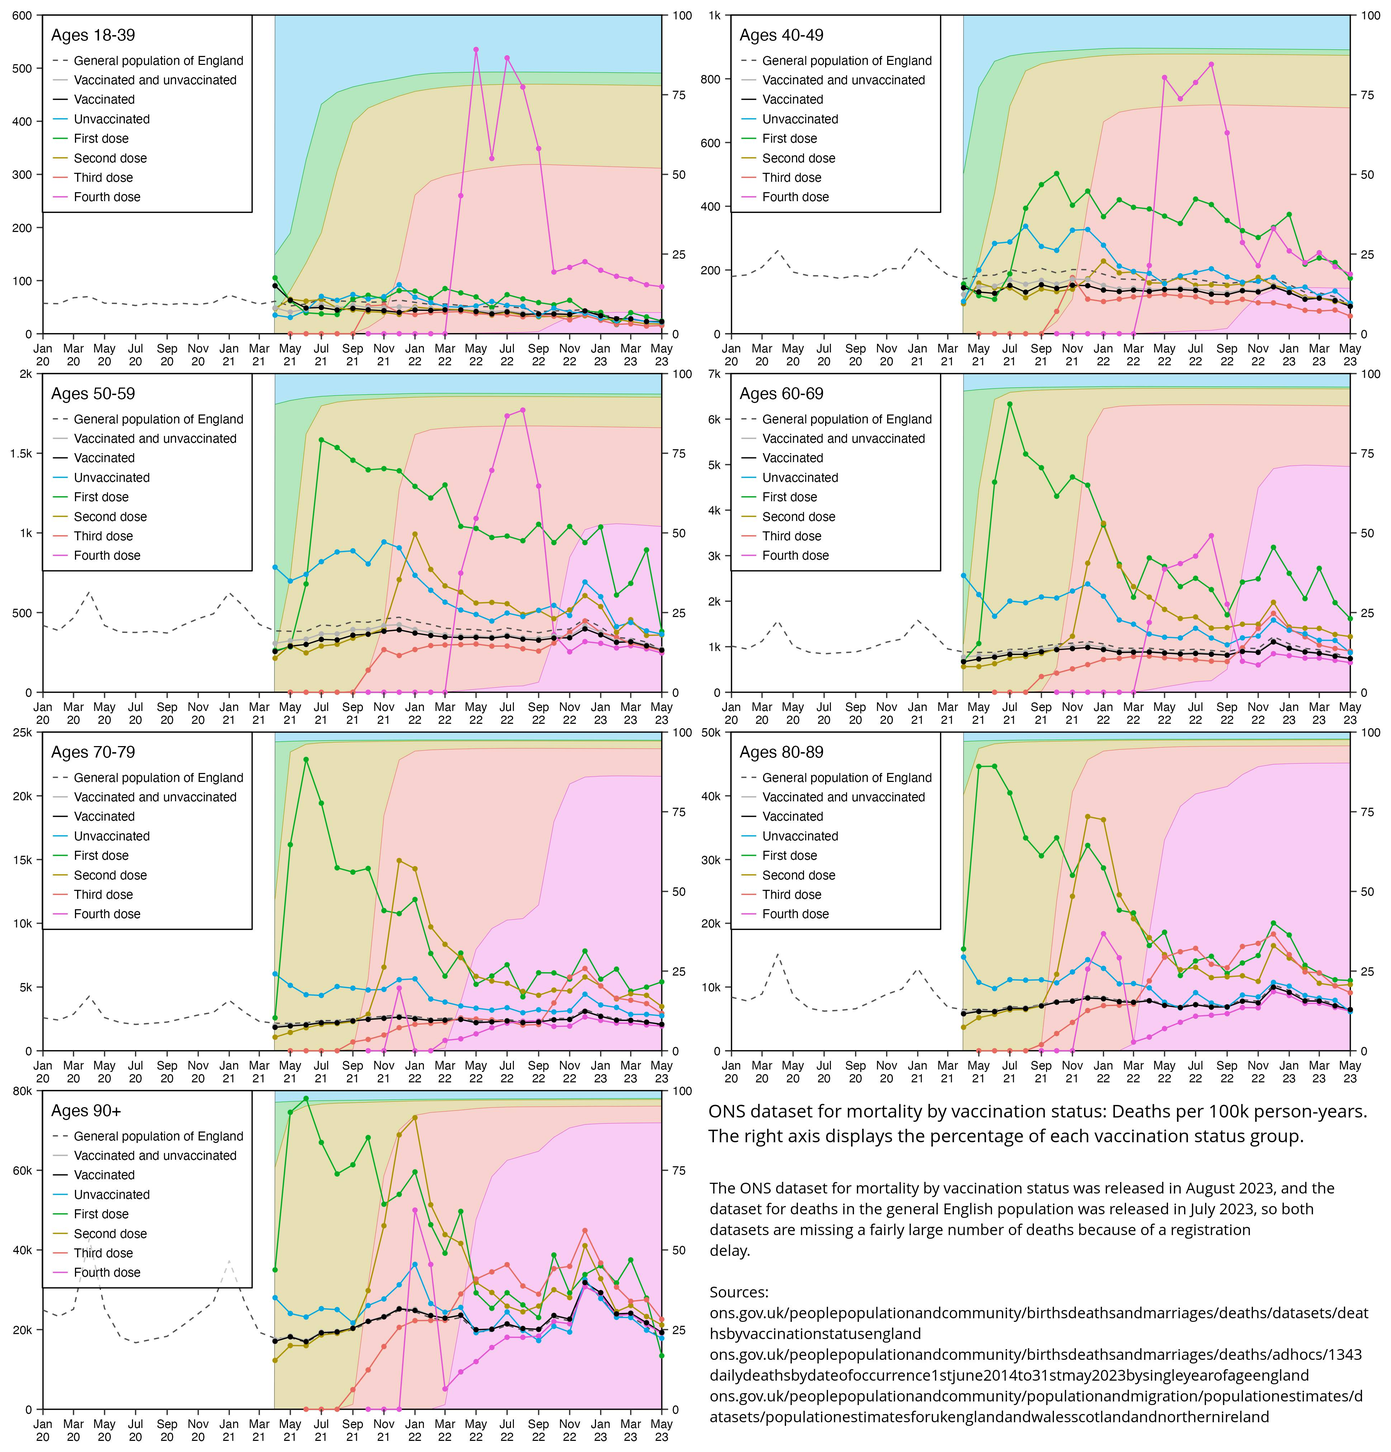
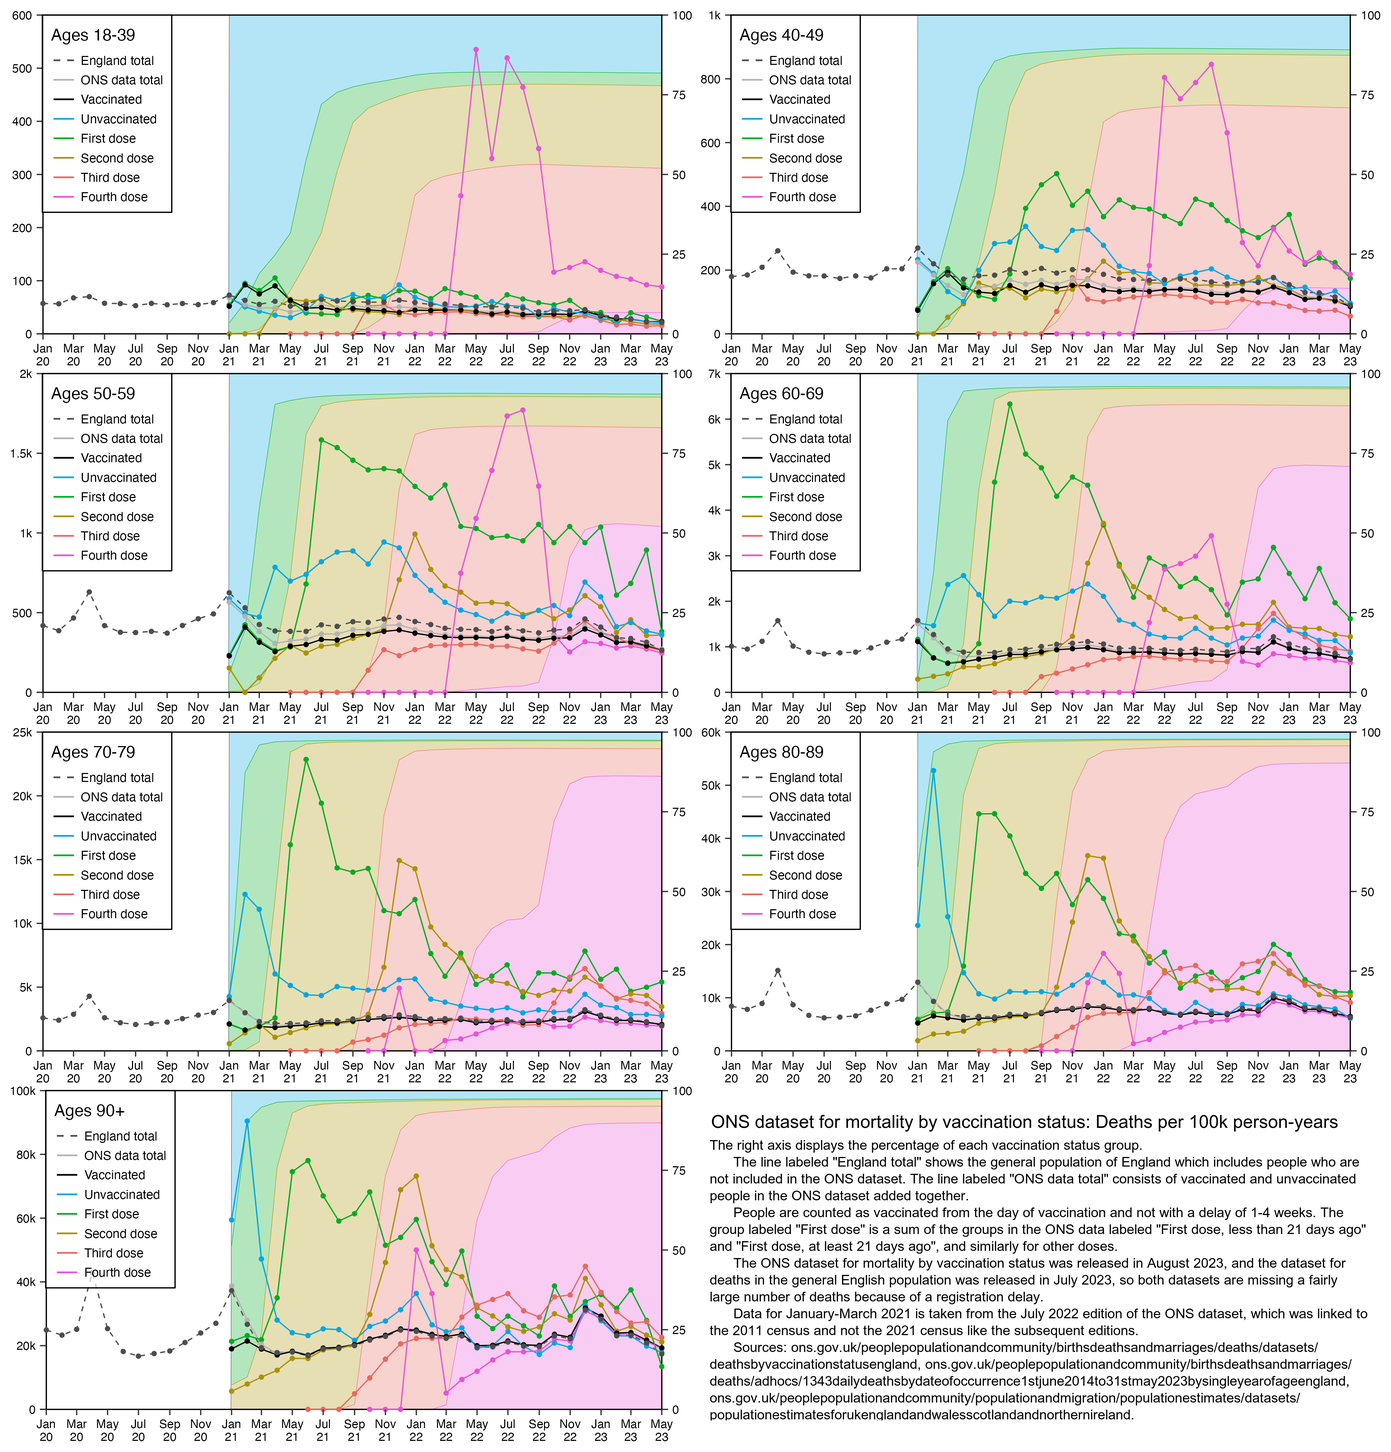
a

diff --git a/debunk.html b/debunk.html
@@ -60,7 +60,8 @@ th{background:#eee;text-align:left;font-weight:bold}
 <li><a href=#Ethical_Skeptic_Plot_for_cardiac_deaths_in_ages_0_54>Ethical Skeptic: Plot for cardiac deaths in ages 0-54</a></li>
 <li><a href=#John_Beaudoin_Cancer_deaths_under_two_ICD_codes_in_Minnesota>John Beaudoin: Cancer deaths under two ICD codes in Minnesota</a></li>
 <li><a href=#Ethical_Skeptic_COVID_deaths_per_capita_compared_to_percentage_of_vaccinated_population_in_US_counties>Ethical Skeptic: COVID deaths per capita compared to percentage of vaccinated population in US counties</a></li>
-<li><a href=#Tore_Aarhus_Gulbrandsen_Changed_z_scores_for_Finland_at_EUROMOMO>Tore Aarhus Gulbrandsen: Changed z-scores for Finland at EUROMOMO</a></li>
+<li><a href=#Tore_Aarhus_Gulbrandsen_Reduced_z_scores_for_Finland_at_EUROMOMO>Tore Aarhus Gulbrandsen: Reduced z-scores for Finland at EUROMOMO</a></li>
+<li><a href=#David_Bell_Increase_in_cancer_deaths_in_ages_15_44_at_CDC_WONDER>David Bell: Increase in cancer deaths in ages 15-44 at CDC WONDER</a></li>
 </ul>
 
 <h2>
@@ -759,7 +760,7 @@ theme(axis.text=element_text(size=5.5,color=&quot;black&quot;),
   plot.title=element_text(size=7.3))
 ggsave(&quot;1.png&quot;,width=5.2,height=3.1,dpi=450)</pre>
 <h2>
-<a href=#Tore_Aarhus_Gulbrandsen_Changed_z_scores_for_Finland_at_EUROMOMO id=Tore_Aarhus_Gulbrandsen_Changed_z_scores_for_Finland_at_EUROMOMO>Tore Aarhus Gulbrandsen: Changed z-scores for Finland at EUROMOMO</a>
+<a href=#Tore_Aarhus_Gulbrandsen_Reduced_z_scores_for_Finland_at_EUROMOMO id=Tore_Aarhus_Gulbrandsen_Reduced_z_scores_for_Finland_at_EUROMOMO>Tore Aarhus Gulbrandsen: Reduced z-scores for Finland at EUROMOMO</a>
 </h2>
 <p>Tore Aarhus Gulbrandsen posted these tweets: [<a href="https://twitter.com/saunasauen/status/1766339791753196004">https://twitter.com/saunasauen/status/1766339791753196004</a>]</p>
 <blockquote>
@@ -769,10 +770,81 @@ ggsave(&quot;1.png&quot;,width=5.2,height=3.1,dpi=450)</pre>
 <p><span class="quote">&quot;Oceania had always been at war with Eurasia.&quot;</span></p>
 <p><img src=i/debunk-euromomo.jpg class=width3></p>
 </blockquote>
-<p>However in the bulletin for week 21, EUROMOMO announced that they started including data from spring 2023 onwards in their baseline calculation: [<a href="https://www.euromomo.eu/bulletins/2023-21">https://www.euromomo.eu/bulletins/2023-21</a>]</p>
+<p>However in a bulletin for week 21 of 2023, EUROMOMO announced that they started including data from spring 2023 onwards in their baseline calculation: [<a href="https://www.euromomo.eu/bulletins/2023-21">https://www.euromomo.eu/bulletins/2023-21</a>]</p>
 <blockquote>
 <p>After a long period with elevated overall European mortality through the COVID-19 pandemic, the European mortality (both totally for the entire population and in all age groups) is by spring 2023 within the expected level. Therefore, data from spring 2023 and onwards will be included in the estimations of the expected mortality. During the pandemic years, the usual patterns of mortality have been disrupted because of the unexpected and varying excess mortality experienced due to the COVID-19 pandemic. This means that the assumption that there is no elevated mortality in certain weeks in spring (week 16-25) and autumn (week 37-44) did not hold. Therefore, to avoid biasing the estimations of the expected mortality, data from the pandemic years (2020-2022) were excluded from the estimations of the expected mortality. Normally, the estimation of the expected mortality is based on data from a five-year period. However, when data from the three pandemic years are excluded from the estimations, the oldest data currently used is up to 8 years old. This means that until 2028, both data from the pre- and post-COVID-19 pandemic periods will be included in the estimations of the expected mortality.</p>
 </blockquote>
+<h2>
+<a href=#David_Bell_Increase_in_cancer_deaths_in_ages_15_44_at_CDC_WONDER id=David_Bell_Increase_in_cancer_deaths_in_ages_15_44_at_CDC_WONDER>David Bell: Increase in cancer deaths in ages 15-44 at CDC WONDER</a>
+</h2>
+<p>David Bell posted this tweet: [<a href="https://twitter.com/bell00david/status/1767668902346002859">https://twitter.com/bell00david/status/1767668902346002859</a>]</p>
+<blockquote>
+<p>Rapid rise in cancer &amp; all-cause mortality in young US adults.</p>
+<p>This would normally be considered a public health priority - looks multifactorial. An objective assessment from CDC would seem urgent, before we repeat a Covid-like response.</p>
+<p><a href="https://www.researchgate.net/publication/378869803_US_%2dDeath_Trends_for_Neoplasms_ICD_codes_C00-D48_Ages_15-44">https://www.researchgate.net/publication/378869803_US_%2dDeath_Trends_for_Neoplasms_ICD_codes_C00-D48_Ages_15-44</a></p>
+<p><img src=i/debunk-bell-1.png class=width3></p>
+</blockquote>
+<p>However the increase in 2021 doesn't seem that big if you compare it against the decrease in deaths during the 00s and 2010s:</p>
+<div class="width6">
+<img src="i/debunk-bell-3.png">
+</div>
+<p>And the increase from 2020 to 2021 is even smaller if you look at CMR instead of the number of deaths, and it's even smaller if you look at ASMR instead of CMR:</p>
+<div class="width6">
+<img src="i/debunk-bell-2.png">
+</div>
+<p>And also it could be that if COVID results in an increase in cancer, then people who started to develop cancer because of COVID in 2020 didn't necessarily die until 2021 or later.</p>
+<pre>t=read.csv(&quot;d/cd/wondercancerage&quot;)|&gt;subset(year!=2024)
+t=t[as.numeric(sub(&quot;[-+N].*&quot;,&quot;&quot;,t$age))%in%15:40,]
+std=with(subset(t,year==2020),setNames(pop,age))
+
+year=sort(unique(t$year))
+
+xy=data.frame(x=year,y=tapply(std[t$age]/sum(std)*t$dead/t$pop,t$year,sum,na.rm=T)*1e5,z=&quot;Age-standardized mortality rate&quot;)
+xy=rbind(xy,data.frame(x=year,y=tapply(t$dead,t$year,sum)/tapply(t$pop,t$year,sum)*1e5,z=&quot;Crude mortality rate&quot;))
+
+xy$z=factor(xy$z,unique(xy$z))
+
+candidates=c(sapply(c(1,2,5),\(x)x*10^c(-10:10)))
+ystep=candidates[which.min(abs(candidates-max(xy$y,na.rm=T)/8))]
+ystart=ystep*floor(min(xy$y,na.rm=T)/ystep)
+yend=ystep*ceiling(max(xy$y,na.rm=T)/ystep)
+ybreak=seq(ystart,yend,ystep)
+xstart=min(xy$x);xend=max(xy$x)
+
+color=c(&quot;#4E70BE&quot;,&quot;#B02318&quot;)
+
+ggplot(xy,aes(x,y,color=z))+
+geom_hline(yintercept=c(ystart,0,yend),color=&quot;black&quot;,linewidth=.3)+
+geom_vline(xintercept=c(xstart,xend),color=&quot;black&quot;,linewidth=.3)+
+geom_line(linewidth=.4)+
+labs(title=&quot;CDC WONDER: Deaths per 100k people with underlying cause C00-D48\n(Neoplasms), ages 15-44&quot;,subtitle=str_wrap(&quot;Source: wonder.cdc.gov/mcd-icd10.html. The age-standardized mortality rate was calculated for 5-year age groups using the 2020 population as the standard population.&quot;,86),x=NULL,y=NULL)+
+coord_cartesian(clip=&quot;off&quot;,expand=F)+
+scale_x_continuous(limits=c(xstart,xend),breaks=seq(1990,2030,5))+
+scale_y_continuous(limits=c(ystart,yend),breaks=ybreak)+
+scale_color_manual(values=color)+
+guides(colour=guide_legend(override.aes=list(linewidth=.5)))+
+theme(axis.text=element_text(size=7,color=&quot;black&quot;),
+  axis.ticks=element_line(linewidth=.3,color=&quot;black&quot;),
+  axis.ticks.length=unit(.2,&quot;lines&quot;),
+  axis.title=element_text(size=8),
+  legend.background=element_blank(),
+  legend.box.just=&quot;left&quot;,
+  legend.key=element_rect(fill=&quot;white&quot;),
+  legend.spacing.x=unit(.15,&quot;lines&quot;),
+  legend.key.size=unit(.75,&quot;lines&quot;),
+  legend.position=c(1,1),
+  legend.justification=c(1,1),
+  legend.box.background=element_rect(fill=alpha(&quot;white&quot;,1),color=&quot;black&quot;,linewidth=.3),
+  legend.margin=margin(-.15,.35,.25,.35,&quot;lines&quot;),
+  legend.text=element_text(size=7,vjust=.5),
+  legend.title=element_blank(),
+  panel.background=element_rect(fill=&quot;white&quot;),
+  panel.grid.major=element_line(linewidth=.3,color=&quot;gray90&quot;),
+  plot.background=element_rect(fill=&quot;white&quot;),
+  plot.margin=margin(.4,.6,.4,.5,&quot;lines&quot;),
+  plot.subtitle=element_text(size=7),
+  plot.title=element_text(size=8))
+ggsave(&quot;1.png&quot;,width=4.2,height=2.8,dpi=450)</pre>
 <script>
 let q=document.querySelectorAll('a,code,pre')
 for(let i=0;e=q[i];i++)e.innerHTML=e.innerHTML.replace(/(\w{60,})/g,x=>x.replace(/./g,"$&<wbr>")).replace(/([\041-\045\047-\057\072\075\077-\100\133-\137\173-\176])/g,"$1<wbr>")

diff --git a/stat.html b/stat.html
@@ -1720,18 +1720,23 @@ pick=rownames(dead)&gt;=&quot;2020-01&quot;;dead=dead[pick,-1];pop=pop[pick,-1]
 
 for(age in colnames(dead)){
 
-t=read.csv(&quot;s/f/ons-table-2-2023-august.csv&quot;,na.strings=c(&quot;x&quot;,&quot;&lt;3&quot;))[,1:8]
+t=read.csv(&quot;http://sars2.net/f/ons-table-2-2023-august.csv&quot;,na.strings=c(&quot;x&quot;,&quot;&lt;3&quot;))
 t=t[t$cause==&quot;All causes&quot;&amp;t$age==age,]
+
+t0=read.csv(&quot;http://sars2.net/f/ons-table-2-2022-july.csv&quot;,na.strings=c(&quot;x&quot;,&quot;&lt;3&quot;))|&gt;subset(cause==&quot;All causes&quot;)
+t0=t0[t0$age==age,]
+t=rbind(subset(t0,year==2021&amp;month%in%month.name[1:3]),t)
+
 date=as.Date(paste0(t$year,&quot;-&quot;,match(t$month,month.name),&quot;-1&quot;))
 
 a=aggregate(t[,6:7],list(status=sub(&quot; dose.*&quot;,&quot; dose&quot;,t$status),date=date),sum,na.rm=T)
 a2=a[a$status!=&quot;Unvaccinated&quot;,]
-a3=aggregate(a[,3:4],data.frame(status=&quot;Vaccinated and unvaccinated&quot;,date=a$date),sum)
+a3=aggregate(a[,3:4],data.frame(status=&quot;ONS data total&quot;,date=a$date),sum)
 a=rbind(a,a3,aggregate(a2[,3:4],data.frame(status=&quot;Vaccinated&quot;,date=a2$date),sum))
 
-a=rbind(a,data.frame(status=&quot;General population of England&quot;,date=as.Date(paste0(rownames(dead),&quot;-1&quot;)),dead=dead[,age],pop=pop[,age]))
+a=rbind(a,data.frame(status=&quot;England total&quot;,date=as.Date(paste0(rownames(dead),&quot;-1&quot;)),dead=dead[,age],pop=pop[,age]))
 
-label=c(&quot;General population of England&quot;,&quot;Vaccinated and unvaccinated&quot;,&quot;Vaccinated&quot;,&quot;Unvaccinated&quot;,&quot;First dose&quot;,&quot;Second dose&quot;,&quot;Third dose&quot;,&quot;Fourth dose&quot;)
+label=c(&quot;England total&quot;,&quot;ONS data total&quot;,&quot;Vaccinated&quot;,&quot;Unvaccinated&quot;,&quot;First dose&quot;,&quot;Second dose&quot;,&quot;Third dose&quot;,&quot;Fourth dose&quot;)
 a$status=factor(a$status,label)
 
 a$cmr=a$dead/a$pop*1e5
@@ -1763,6 +1768,7 @@ scale_color_manual(values=color)+
 scale_fill_manual(values=color)+
 scale_linetype_manual(values=c(2,rep(1,7)))+
 guides(color=guide_legend(ncol=1))+
+guides(colour=guide_legend(override.aes=list(linewidth=.4)))+
 theme(axis.text=element_text(size=6,color=&quot;black&quot;),
   axis.text.y.left=element_text(color=alpha(&quot;black&quot;,c(0,rep(1,length(ybreak))))),
   axis.ticks=element_line(linewidth=.3),
@@ -1774,7 +1780,7 @@ theme(axis.text=element_text(size=6,color=&quot;black&quot;),
   legend.key=element_rect(fill=alpha(&quot;white&quot;,0)),
   legend.spacing.x=unit(.15,&quot;lines&quot;),
   legend.key.size=unit(.68,&quot;lines&quot;),
-  legend.key.width=unit(0.65,&quot;lines&quot;),
+  legend.key.width=unit(0.89,&quot;lines&quot;),
   legend.box.background=element_rect(fill=alpha(&quot;white&quot;,.7),color=&quot;black&quot;,linewidth=.3),
   legend.margin=margin(.4,.3,.2,.3,&quot;lines&quot;),
   legend.position=c(0,1),
@@ -1790,16 +1796,20 @@ ggsave(paste0(&quot;age.&quot;,age,&quot;.png&quot;),width=4.8,height=2.5,dpi=40
 
 }
 
-tit=&quot;ONS dataset for mortality by vaccination status: Deaths per 100k person-years. The right axis displays the percentage of each vaccination status group.&quot;
-sub=&quot;The ONS dataset for mortality by vaccination status was released in August 2023, and the dataset for deaths in the general English population was released in July 2023, so both datasets are missing a fairly large number of deaths because of a registration delay.
+tit=&quot;ONS dataset for mortality by vaccination status: Deaths per 100k person-years&quot;
+sub=&quot;The right axis displays the percentage of each vaccination status group.
+      The line labeled \&quot;England total\&quot; shows the general population of England which includes people who are not included in the ONS dataset. The line labeled \&quot;ONS data total\&quot; consists of vaccinated and unvaccinated people in the ONS dataset added together.
+      People are counted as vaccinated from the day of vaccination and not with a delay of 1-4 weeks. The group labeled \&quot;First dose\&quot; is a sum of the groups in the ONS data labeled \&quot;First dose, less than 21 days ago\&quot; and \&quot;First dose, at least 21 days ago\&quot;, and similarly for other doses.
+      The ONS dataset for mortality by vaccination status was released in August 2023, and the dataset for deaths in the general English population was released in July 2023, so both datasets are missing a fairly large number of deaths because of a registration delay.
+      Data for January-March 2021 is taken from the July 2022 edition of the ONS dataset, which was linked to the 2011 census and not the 2021 census like the subsequent editions.
+      Sources: ons.gov.uk/peoplepopulationandcommunity/birthsdeathsandmarriages/deaths/datasets/
+deathsbyvaccinationstatusengland, ons.gov.uk/peoplepopulationandcommunity/birthsdeathsandmarriages/
[1 lines of base64/hex data omitted]
+ons.gov.uk/peoplepopulationandcommunity/populationandmigration/populationestimates/datasets/
+populationestimatesforukenglandandwalesscotlandandnorthernireland.&quot;
 
-Sources:
-ons.gov.uk/peoplepopulationandcommunity/birthsdeathsandmarriages/deaths/datasets/deathsbyvaccinationstatusengland
-ons.gov.uk/peoplepopulationandcommunity/birthsdeathsandmarriages/deaths/adhocs/1343dailydeathsbydateofoccurrence1stjune2014to31stmay2023bysingleyearofageengland
-ons.gov.uk/peoplepopulationandcommunity/populationandmigration/populationestimates/datasets/populationestimatesforukenglandandwalesscotlandandnorthernireland&quot;
-
-system(paste0(&quot;wh=$(identify -format %w\\ %h age.18-39.png|awk &#39;{print$1*2,$2}&#39;);convert -gravity west -size $(awk &#39;{print ($1-80)\&quot;x\&quot;}&#39;&lt;&lt;&lt;\&quot;$wh\&quot;) \\( -pointsize 55 -bordercolor white -border 40 caption:&#39;&quot;,tit,&quot;&#39; \\) \\( -pointsize 42 -border 40 caption:&#39;&quot;,sub,&quot;&#39; \\) -append -extent $(tr \\  x&lt;&lt;&lt;\&quot;$wh\&quot;) 0.png&quot;))
-system(&quot;montage -geometry +0+0 -tile 3x age.* 0.png 1.png;mogrify -trim -bordercolor white -border 30 1.png&quot;)
+system(paste0(&quot;wh=$(identify -format %w\\ %h age.18-39.png|awk &#39;{print$1,$2}&#39;);convert -font &#39;/Library/Fonts/Arial Unicode.ttf&#39; -interline-spacing -5 -gravity west -size $(awk &#39;{print ($1-80)\&quot;x\&quot;}&#39;&lt;&lt;&lt;\&quot;$wh\&quot;) \\( -pointsize 50 -bordercolor white -border 44 caption:&#39;&quot;,tit,&quot;&#39; \\) -gravity southwest -shave x40 \\( -pointsize 38 -border 40 caption:&#39;&quot;,sub,&quot;&#39; -gravity northwest -shave x48 \\) -append -gravity west -extent $(tr \\  x&lt;&lt;&lt;\&quot;$wh\&quot;) 0.png&quot;))
+system(&quot;montage -geometry +0+0 -tile 2x age.* 0.png 1.png;mogrify -trim -bordercolor white -border 30 1.png&quot;)
 system(&quot;qlmanage -p 1.png&amp;&gt;/dev/null&quot;)</pre>
 <div class="width11">
 <img src="i/stat-ons-multiline.jpg">

diff --git a/moar.html b/moar.html
@@ -5640,7 +5640,7 @@ cmr[56+1]/cmr[46+1]</pre>
 [1] 302.7572</pre>
 <p>The reported number of migrant arrivals was about 120,000 in 2022, about 60,000 in 2021, about 90,000 in 2020, about 170,000 in 2019, and about 140,000 in 2018 and earlier: <a href="https://www.stats.govt.nz/information-releases/international-migration-july-2023/#annual">https://www.stats.govt.nz/information-releases/international-migration-july-2023/#annual</a>. For some reason the number of migrant arrivals was much bigger in 2019 than in previous prepandemic years, but if you subtract the number of new arrivals in 2022 from the number of new arrivals in 2018 and earlier, the difference is something like 20,000 people (even though the number of migrant departures was also reduced during the lockdown).</p>
 <p>Gibson also wrote: <span class="quote">&quot;For example, New Zealand recorded 3640 more deaths in 2022 than in 2021 [...] The attribution of the extra deaths in 2022 to COVID-19 also cannot not be the full story given that fewer than 2700 deaths have been attributed to COVID-19 over the entire three-year COVID-era. Thus, in 2022 approximately 1000 extra deaths are likely to be from causes other than COVID-19 but there seems to be little questioning about these non-COVID deaths.&quot;</span> However he failed to account that there was negative excess mortality in 2021 and that NZ has an increasing trend in the number of deaths per year. You cannot derive the number of excess deaths in 2022 by simply subtracting the number of deaths in 2021. I got only about 2289 excess deaths in 2022 when I used the linear trend in 2015-2019 as the baseline.</p>
-<p>Thoughtfulnz pointed out that on Infoshare there's also a dataset for migrant arrivals and departures in 5-year age groups, which can be combined with another Infoshare dataset for mortality rates within 5-year age groups. When I used them to calculate the expected number of deaths among the migrant arrivals in 2022, I got only about 234 deaths. Migration actually has a bigger impact on the total population than I expected, because for example in 2023 there were almost 5 times as many migrant arrivals as births, but migrants are so young that they have little effect on the number of deaths per year:</p>
+<p>Thoughtfulnz pointed out that on Infoshare there's also a dataset for migrant arrivals and departures in 5-year age groups, which can be combined with another Infoshare dataset for mortality rates within 5-year age groups. When I used them to calculate the expected number of deaths among the migrant arrivals in 2022, I got only about 234 deaths. Migration actually has a bigger impact on the total population than I expected, because for example in 2023 there were almost 5 times as many migrant arrivals as births, but migrants are so young that they have little impact on the number of deaths per year:</p>
 <div class="width7">
 <img src="i/moar-migration-heat.png">
 </div>
@@ -7384,6 +7384,7 @@ system(&quot;w=`identify -format %w 0.png`;convert 0.png -gravity northwest \\( 
 <div class="width6">
 <img src="i/moar-usmortality-2.png">
 </div>
+<p>USMortality even got lower excess deaths in 2013 than 2020, even though 2020 was clearly further below the real trend.</p>
 <pre>pop=read.csv(&quot;https://sars2.net/f/nz_infoshare_population.csv&quot;)
 xy=data.frame(x=pop$year)
 std=unlist(pop[pop$year==2015,-1])
@@ -7443,8 +7444,27 @@ theme(axis.text=element_text(size=7,color=&quot;black&quot;),
   plot.margin=margin(.4,.6,.4,.5,&quot;lines&quot;),
   plot.subtitle=element_text(size=7),
   plot.title=element_text(size=8.5))
-ggsave(&quot;1.png&quot;,width=4,height=2.8,dpi=450)
-qp()</pre>
+ggsave(&quot;1.png&quot;,width=4,height=2.8,dpi=450)</pre>
+<p>USMortality also said that he got 12,452 excess deaths in 2021-2023 with his baseline:</p>
+<div class="width5">
+<img src="i/moar-usmortality-3.jpg">
+</div>
+<p>However when I used the same 2011-2020 linear baseline at Mortality Watch but I derived the excess deaths from the excess ASMR, I got only about 6,400 excess deaths in 2021-2023: <code>(659.9-648.2)*5111110/1e5+(707.6-638.8)*5125430/1e5+(672.9-629.4)*5238880/1e5</code>. (But that's still too high because the baseline includes 2020 and because the ASMR had a curved trend before COVID.)</p>
+<div class="width5">
+<img src="i/moar-usmortality-4.png">
+</div>
+<p>At Mortality Watch New Zealand gets positive excess ASMR in 2020 if you use the 2011-2018 linear trend as the baseline and the 2020 NZ population as the standard population. When I used the same baseline, same prediction interval, and same standard population, I got negative excess ASMR in 2020 regardless of whether I used single years of age or 5-year or 10-year age groups. But then I realized it's because Mortality Watch calculates ASMR using the five broad age groups from the Short-Term Mortality Fluctuations database (15-64, 65-74, 75-84, and 85+). And I also got much higher excess ASMR in 2021-2023 when I switched to the STMF age groups:</p>
+<div class="width5">
+<img src="i/moar-usmortality-5.png">
+</div>
+<p>In the age groups 85+ and 74-75, the upper end of the age group now accounts for a larger percentage of people than earlier, which results in newer ASMR values being exaggerated relative to older ASMR values:</p>
+<div class="width5">
+<img src="i/moar-usmortality-6.png">
+</div>
+<p>In another Twitter thread a week earlier, USMortality said that there was no pandemic because New Zealand got -0.5% cumulative excess ASMR, but now he implied that vaccines were killing a lot of people because he got positive excess ASMR in New Zealand. [<a href="https://twitter.com/USMortality/status/1766156418774909251">https://twitter.com/USMortality/status/1766156418774909251</a>] The reason why he got lower excess ASMR in the earlier thread was that he included 2020 in the cumulative excess ASMR, he didn't include 2020 in his baseline, and he used a shorter baseline. So depending on which narrative he is trying to promote, he can arrive at two opposite conclusions from the same underlying data if he simply changes the baseline:</p>
+<div class="width10">
+<img src="i/moar-usmortality-7.jpg">
+</div>
 <script>
 let q=document.querySelectorAll('a,code,pre')
 for(let i=0;e=q[i];i++)e.innerHTML=e.innerHTML.replace(/(\w{60,})/g,x=>x.replace(/./g,"$&<wbr>")).replace(/([\041-\045\047-\057\072\075\077-\100\133-\137\173-\176])/g,"$1<wbr>")
